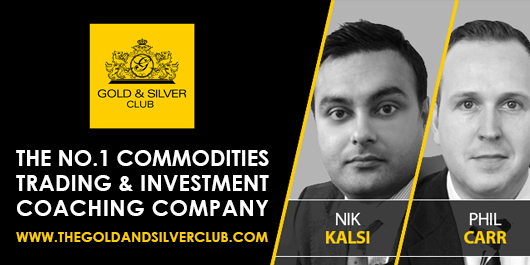
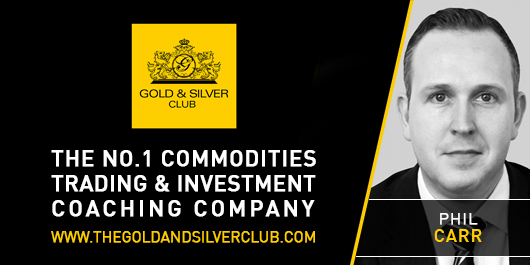
pk

diff --git a/pages/en/contributors/15-phill-carr.html b/pages/en/contributors/15-phill-carr.html
@@ -16,4 +16,4 @@ image: /images/Phil-Carr-Webshot.jpg
 <p class="font-s">We value your privacy. We never share your email address with anyone.</p>
 <p class="p--action"><a class="button" href="https://trade.binary.com/commoditiescorner_goldsilverclub/?utm_source=blog&utm_medium=social&utm_campaign=oct2016_header_contributors_philandniksubscribe_en"><span>Subscribe Now</span></a></p>
 <p>For further information on <i>The Gold & Silver Club</i>, please visit: <a href="http://www.thegoldandsilverclub.com" target="_blank">Thegoldandsilverclub.com.</a></p>   
-<p>Check out the following recordings of Phil and Nik's most recent webinar on our new <a href="https://www.youtube.com/playlist?list=PLVJJAiu3lRjbOmUoIsqDTOsfX1v4P1yLc&utm_source=blog&utm_medium=social&utm_campaign=oct2016_header_contributors_philandnikyoutube_en" target="_blank">YouTube channel.</a></p>
+<p>Check out the following recordings of Phil's most recent webinar on our new YouTube channel <a href="https://www.youtube.com/playlist?list=PLVJJAiu3lRjbOmUoIsqDTOsfX1v4P1yLc&utm_source=blog&utm_medium=social&utm_campaign=oct2016_header_contributors_philandnikyoutube_en" target="_blank">YouTube channel.</a></p>
